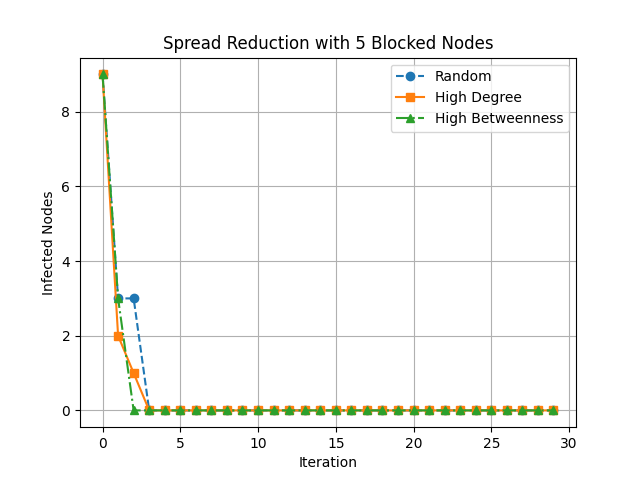
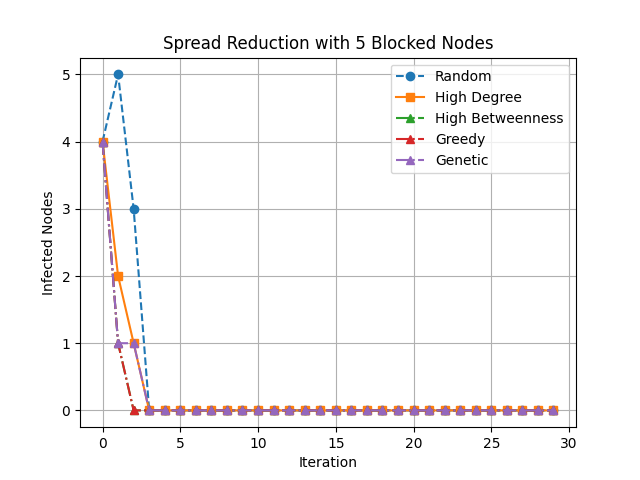
run batch

diff --git a/src/04_compare_blocking_strategies.py b/src/04_compare_blocking_strategies.py
@@ -4,6 +4,7 @@ import ndlib.models.ModelConfig as mc
 import matplotlib.pyplot as plt
 import random
 import pickle
+from base import greedy_blocking
 from genetic import genetic_blocking_strategy
 from helper import simulate_icm_spread
 from config import CONFIG
@@ -32,7 +33,6 @@ degree_nodes = [n for n, _ in degrees[:k]]
 G2.remove_nodes_from(degree_nodes)
 [result_degree,_] = simulate_icm_spread(G2)
 
-
 # Strategy 3: High-Betweenness Blocking
 G3 = G.copy()
 betweenness = nx.betweenness_centrality(G3)
@@ -40,17 +40,24 @@ betweenness_nodes = sorted(betweenness, key=betweenness.get, reverse=True)[:k]
 G3.remove_nodes_from(betweenness_nodes)
 [result_betweenness,_] = simulate_icm_spread(G3)
 
+# Strategy 4: Greedy Blocking
+G4 = G.copy()
+greedy_nodes = greedy_blocking(G4, k)
+G4.remove_nodes_from(greedy_nodes)
+[greedy,_] = simulate_icm_spread(G4)
 
-# G4 = G.copy()
-# greedy_nodes = genetic_blocking_strategy(G4, k, CONFIG["genetic_config"])
-# G4.remove_nodes_from(greedy_nodes)
-# [ga_results,_] = simulate_icm_spread(G4)
+# Strategy 5: Genetic Algorithm Blocking
+G5 = G.copy()
+ga_nodes = genetic_blocking_strategy(G5, k, CONFIG["genetic_config"])
+G5.remove_nodes_from(ga_nodes)
+[genetic,_] = simulate_icm_spread(G5)
 
 # Plot comparison
 plt.plot(result_random, label="Random", linestyle='--', marker='o')
 plt.plot(result_degree, label="High Degree", linestyle='-', marker='s')
 plt.plot(result_betweenness, label="High Betweenness", linestyle='-.', marker='^')
-# plt.plot(ga_results, label="Genetic", linestyle='-.', marker='^')
+plt.plot(greedy, label="Greedy", linestyle='-.', marker='^')
+plt.plot(genetic, label="Genetic", linestyle='-.', marker='^')
 plt.xlabel("Iteration")
 plt.ylabel("Infected Nodes")
 plt.title(f"Spread Reduction with {k} Blocked Nodes")
